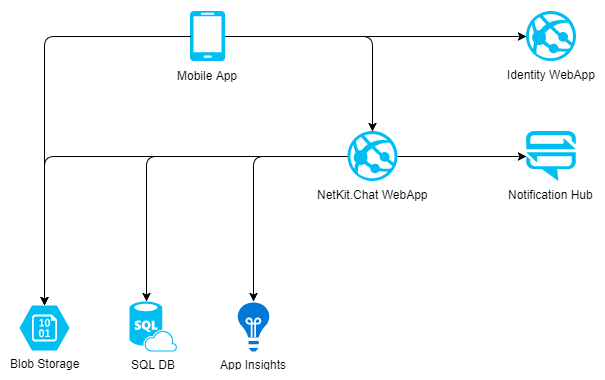
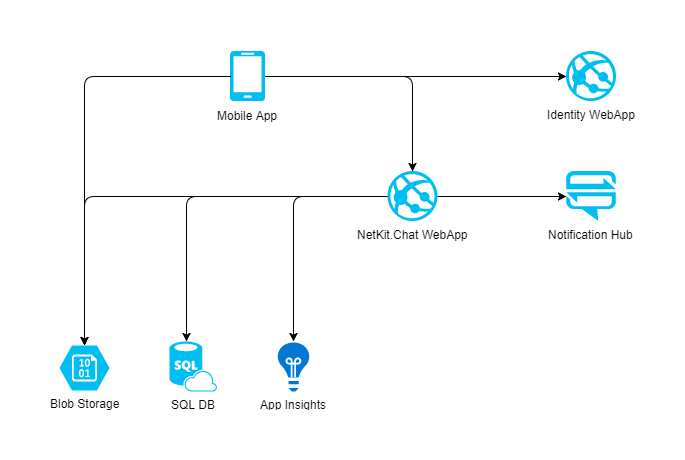
README.md updated

diff --git a/README.md b/README.md
@@ -131,7 +131,13 @@ To ensure the full operation of the application, you must configure the followin
 - Azure Application Insights
 - Azure Web App Service
 
+Azure services interaction scheme:
+
 ![Azure services architecture](img/azure.png)
+
+The following diagram demonstrates current solution architecture:
+
+![Solution architecture](img/architecture.png)
 
 The following code fragment contains NetKit.Chat ```appsettings.json``` template configuration file:
 
